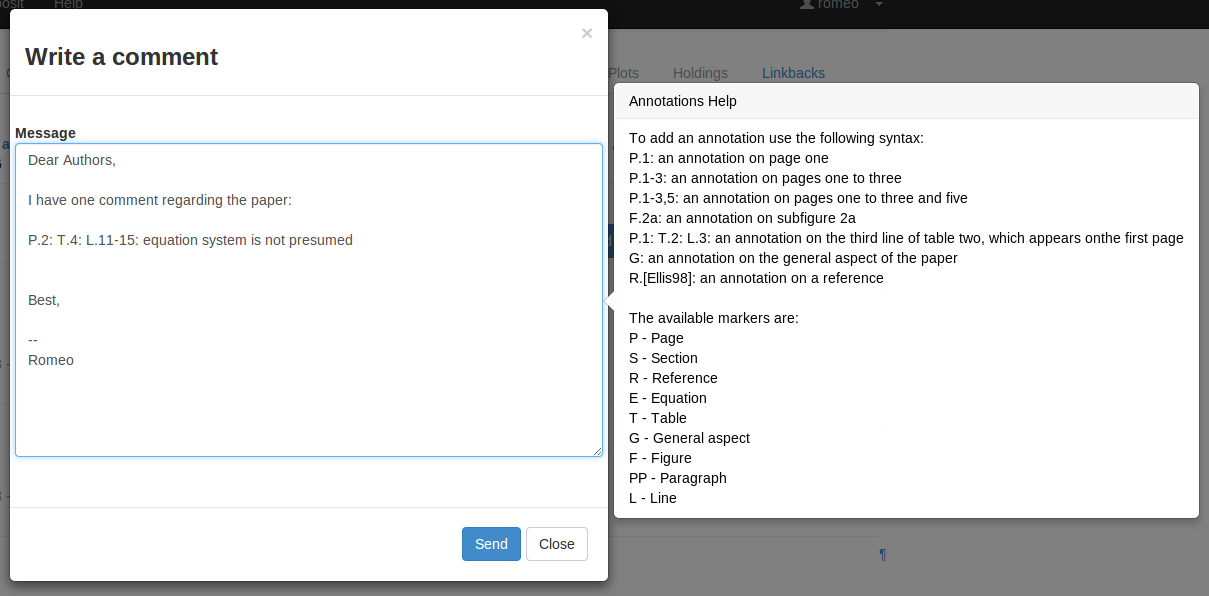
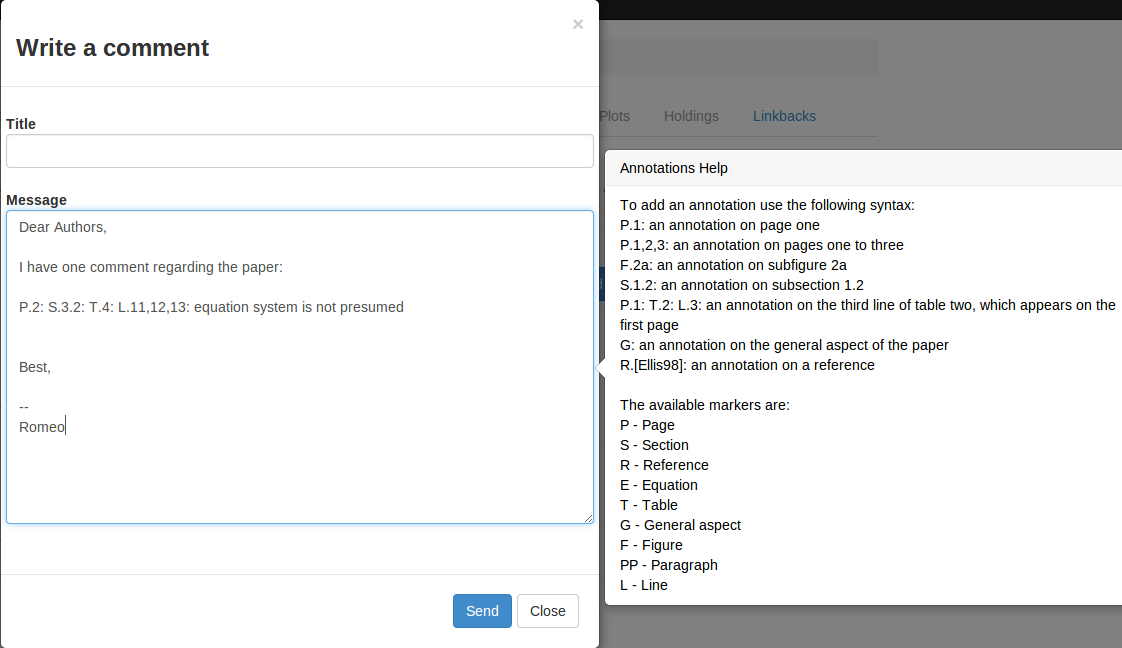
notes section additions and corrections

Changed region(s): [[0.0, 0.0, 1.0, 1.0]]

diff --git a/sections/impl/notes/main.tex b/sections/impl/notes/main.tex
@@ -3,7 +3,7 @@
 Using the base annotation model as a starting point, the targeted document
 commenting feature can be implemented. In this scenario, the \textit{``where''}
 field of the base model needs to encode both the document identifier and the
-exact target of the annotation (e.g., the second page).
+exact target of the annotation (e.g., equation four on second page).
 
 In the current version of Invenio, records can have one or more documents
 associated, each of them with multiple versions. For example, during the CDS
@@ -33,11 +33,11 @@ nine so-called \textit{``markers''} which can identify valid targets:
   \item Table (T)
   \item Section (S): this could also refer to subsections as long as they
                      possess a proper identifier (e.g., Subsection 4.2 can be
-                     marked using $S.4: S.2$).
-  \item Paragraph (PP): this will likely refer to relative positions, such
+                     marked using either $S.4: S.2$ or $S.4.2$).
+  \item Paragraph (PP): this will most likely refer to relative locations, such
                         as \textit{``the third paragraph on the second page''}.
   \item Reference (R): a bibliographic citation, could prove useful in a
-                       scenario similar to the INSPIRE reference correction 
+                       scenario similar to the INSPIRE citation correction 
                        form presented in Section \ref{sec:motiv}.
   \item General (G): this allows specifying annotations which regard general
                      aspects, such as formatting issues (\textit{``the text is
@@ -46,11 +46,31 @@ nine so-called \textit{``markers''} which can identify valid targets:
                      be added''}).
 \end{enumerate}
 The letters between parentheses above denote the special markup that can be
-used by users for referring to the various document locations; for example,
+employed by users for referring to the various document locations; for example,
 \textit{``P.2: F.3a: equation system is not presumed''} is a valid annotation
-on subfigure $3a$ on the second page. Markers can be combined to form
+on subfigure $3a$ on the second page. As shown, markers can be combined to form
 hierarchic structures with no depth restrictions; this should facilitate the
-specification of precise, unambiguous locations.
+specification of precise, unambiguous locations. The \textit{specifiers} that
+accompany markers can have on of the following forms:
+\begin{itemize}
+  \item Single: \textit{``P.1''} (first page) or \textit{``S.A''} (section A).
+  \item Multiple: \textit{``F.1,3,4''} (figures one, three, and four).
+  \item Sub-locations: \textit{``S.1.1''} (subsection 1.1). Note that in this
+                       case the full stops have different semantics, depending on
+                       their positions: the first full stop will always separate
+                       markers from specifiers, while further ones will signal
+                       sub-locations.
+  \item Bibliographic: \textit{``R.[Doe08]''}; the characters between square
+                       brackets identify a bibliographic reference, and multiple
+                       such locations can be specified using commas
+                       (\textit{``R.[Doe08], [Doe09]''}).
+\end{itemize}
+
+Markers and specifiers can be combined in any manner; for example,
+\textit{''P.1: S.1.1: F.2,3a,4: equation system is not presumed''} is a valid
+annotation.  The colon (\textit{:}) is used as a delimiter between a
+marker-specifier pair and a block of plain text (the body of the annotations),
+or a new pair, as shown in the hierarchical annotations examples.
 
 This type of annotations can be inserted using the standard Invenio
 commenting facilities, in two different manners:
@@ -89,8 +109,7 @@ annotations are considered valid if complying with the following format:
 \end{verbatim}
 Square brackets denote optional elements, and the \texttt{\^} and \texttt{\$}
 symbols the beginning and end, respectively, of the text line; the line break
-is inserted purely for formatting reasons. Specifiers are the actual locations
-typed by the markers (e.g., page \textit{one}).
+is inserted purely for formatting reasons.
 
 While the final regular expression used for extracting the annotations is quite
 complex, it is composed of simple building blocks. For example, the section
@@ -117,7 +136,7 @@ grammar could be considered.
              expression is defined as the marker ($S$), followed by a full stop,
              followed by list of alpha-numeric characters of length equal or
              greater than $1$ (the global definition of $LOCATION$ is currently
-             used for almost all markers).}
+             used for all markers except citations).}
     \label{lst:regex}
 \end{figure}
 
@@ -157,8 +176,6 @@ For completeness, the workflow of document annotations is included in Fig.
   \label{fig:docanno}
 \end{figure}
 
-\FloatBarrier
-
 Finally, annotations can be previewed in a manner similar to the one presented
 in Fig. \ref{fig:noteview}. The current version proposes a two-column window,
 with one column dedicated to previewing the concerned document (currently the
@@ -197,4 +214,35 @@ designed in a manner addressing two issues:
            Equation 1). Clicking on the previewer pane allows adding a new
            annotation targeting the displayed page.}
   \label{fig:noteview}
+\end{figure}
+
+In order to obtain the aggregated view, two operations need to be applied.
+First, a query for retrieving the annotations on the requested document and
+page is issued to MongoDB; while the per-page view is the only one currently
+supported by the PDF viewer, more granular queries are also supported (e.g., get
+all annotations on figure three on second page).
+
+Secondly, the annotations need to be grouped by their common markers. This is
+achieved by building a tree structure, in which the leaf vertices contain the
+annotations, and others the various marker-location pairs; the root contains
+the page marker. For example, consider the following annotations:
+\begin{itemize}
+    \item P.1: S.2: F.3: this figure is too small
+    \item P.1: S.2: E.3: equation system is not presumed
+    \item P.1: L.23: typo?
+\end{itemize}
+The tree in Fig. \ref{fig:tree} is built. By applying a depth-first traversal,
+an aggregated view similar to the one in Fig. \ref{fig:noteview} can be
+obtained.
+
+\begin{figure}[!ht]
+  \centering
+  \fbox{\Tree [.P.1 [.S.2 [.F.3 \textit{this figure is too small} ]
+                    [.E.3 \textit{equation system is not presumed} ] ]
+              [ .L.23 [ \textit{typo?} ] ] ]}
+  \caption[Tree used for annotation aggregation.]
+          {Tree used for annotation aggregation. By traversing the structure in
+           a  depth-first manner, annotations can be aggregated by their common
+           markers and locations.}
+  \label{fig:tree}
 \end{figure}

diff --git a/main.tex b/main.tex
@@ -23,6 +23,7 @@
 \usepackage{makeidx}
 \usepackage{pdfpages}
 \usepackage{placeins}
+\usepackage{qtree}  % in texlive-humanities
 \usepackage{standalone}
 \usepackage{subcaption}
 
